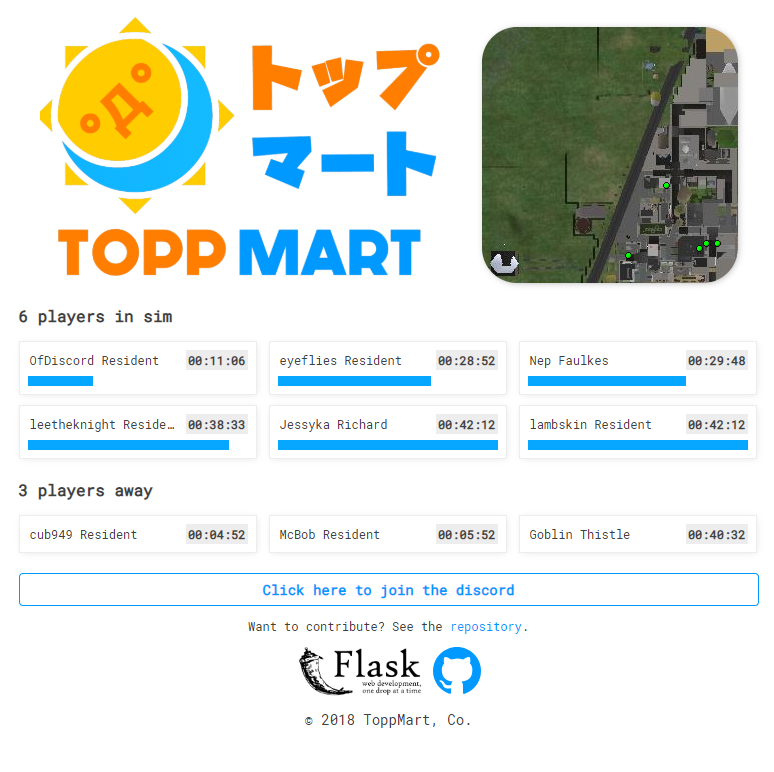
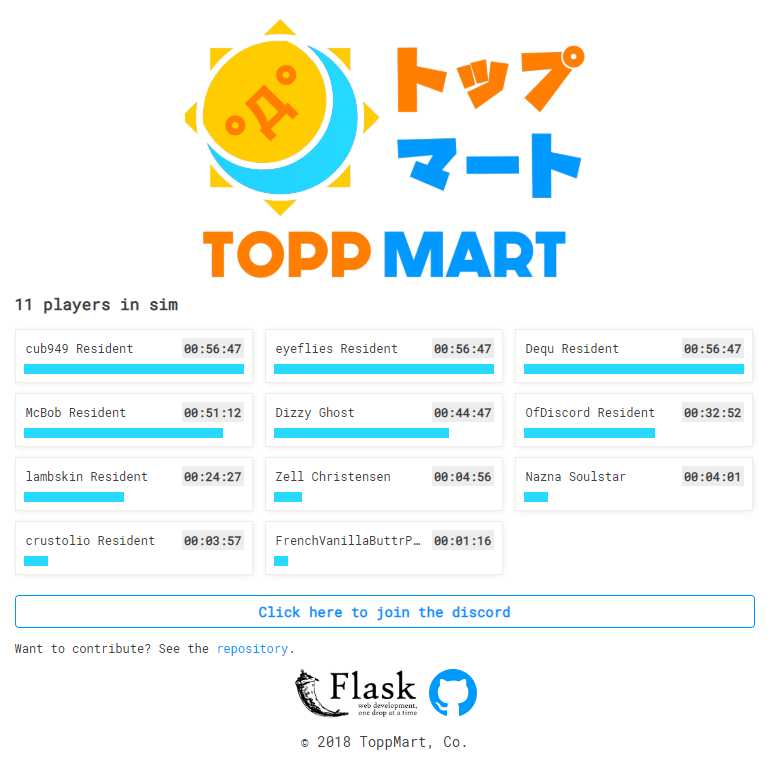
ranking players

diff --git a/app/static/app.js b/app/static/app.js
@@ -26,17 +26,34 @@ app.controller('MainCtrl', function($scope, $http, $timeout) {
     var getPlayers = function() {
         $http.get('/sim/json/players')
         .then(function(res) {
-          if(sidebar_id == null || sidebar_id != res.data.id) {
-              if(res.data.players.length == 0) {
+          if (sidebar_id == null || sidebar_id != res.data.id) {
+              if (res.data.players.length == 0) {
                    $scope.numplayers = '0 players';
                    $scope.players = [];
               } else {
-                  for(var i = 0; i < res.data.players.length; i++) {
+                  // Compute the ranks
+                  var rank_list = res.data.players.concat(res.data.offline_players).sort((a, b) => (b.time + b.elapsed) - (a.time + a.elapsed));
+                  var rank_dict = {};
+                  for (var i = 0; i < rank_list.length; i++) {
+                    rank_dict[rank_list[i].username] = i + 1;
+                  }
+
+                  for (var i = 0; i < res.data.players.length; i++) {
                       res.data.players[i].width = Math.min(10 + (210 * res.data.players[i].elapsed/res.data.max_time), 220);
                       res.data.players[i].elapsed_formatted = format_time(res.data.players[i].elapsed);
+                      var split_name = res.data.players[i].username.split(" ");
+                      res.data.players[i].rank = rank_dict[res.data.players[i].username];
+                      if (split_name.length > 0 && split_name[1] == "Resident") {
+                          res.data.players[i].username = split_name[0];
+                      }
                   }
-                  for(var i = 0; i < res.data.offline_players.length; i++) {
+                  for (var i = 0; i < res.data.offline_players.length; i++) {
                       res.data.offline_players[i].elapsed_formatted = format_time(res.data.offline_players[i].elapsed);
+                      var split_name = res.data.offline_players[i].username.split(" ");
+                      res.data.offline_players[i].rank = rank_dict[res.data.offline_players[i].username];
+                      if (split_name.length > 0 && split_name[1] == "Resident") {
+                          res.data.offline_players[i].username = split_name[0];
+                      }
                   }
                   $scope.numplayers = res.data.players.length + ' player' + (res.data.players.length > 1 ? 's' : '');
                   $scope.players = res.data.players.sort((b,a) => b.elapsed - a.elapsed);
@@ -59,7 +76,7 @@ app.controller('MainCtrl', function($scope, $http, $timeout) {
         elapsed = (Date.now() - last_date)/1000;
         $scope.max_time += elapsed;
         $scope.max_time = Math.floor($scope.max_time);
-        for(var i = 0; i < players.length; i++) {
+        for (var i = 0; i < players.length; i++) {
             players[i].elapsed += elapsed;
             players[i].width = Math.min(10 + (210 * players[i].elapsed/$scope.max_time), 220);
             players[i].elapsed_formatted = format_time(players[i].elapsed);
@@ -67,7 +84,7 @@ app.controller('MainCtrl', function($scope, $http, $timeout) {
 
         offline_players = $scope.offline_players;
 
-        for(var i = 0; i < offline_players.length; i++) {
+        for (var i = 0; i < offline_players.length; i++) {
             offline_players[i].elapsed += elapsed;
             offline_players[i].elapsed_formatted = format_time(offline_players[i].elapsed);
         }

diff --git a/app/templates/main.html b/app/templates/main.html
@@ -7,7 +7,7 @@
         </div>
         <div class="minimap">
             <div class="player" ng-repeat="player in players">
-                <img src="/static/player.png" title="@@player.username@@" alt="@@player.username@@" style="position: absolute; margin-left:@@player.x@@px; margin-top: @@256 - player.z@@px">
+                <img src="/static/player.png" alt="@@player.username@@" style="position: absolute; margin-left:@@player.x - 3.5@@px; margin-top: @@256 - player.z - 3.5@@px">
             </div>
         </div>
     </div>
@@ -15,6 +15,7 @@
     <div class="timers" ng-if="players && players.length > 0">
         <div class="timer-row" ng-repeat="player in players">
             <div class="timer-label">
+                <div class="rank"><div class="trophy" ng-if="player.rank <= 3">🏆</div>#@@player.rank@@ </div>
                 <div class="username">@@player.username@@</div>
                 <div class="time">@@player.elapsed_formatted@@</div>
             </div>
@@ -25,13 +26,14 @@
     <div class="timers" ng-if="offline_players && offline_players.length > 0">
         <div class="timer-row" ng-if="players" ng-repeat="player in offline_players">
             <div class="timer-label">
+                <div class="rank"><div class="trophy" ng-if="player.rank <= 3">🏆</div>#@@player.rank@@ </div>
                 <div class="username">@@player.username@@</div>
                 <div class="time">@@player.elapsed_formatted@@</div>
             </div>
         </div>
     </div>
     <div class="button" style="margin-top: 15px" onclick="window.open('https://discord.gg/NCrneV')">Click here to join the discord</div>
-    <p class="regular">Want to contribute? See the <a href="https://github.com/qubard/toppmart-website" target="_blank">repository</a>.</p>
+    <p class="regular">Want to contribute? See the <a href="https://github.com/qubard/toppmart-website" target="_blank">repository</a>. Ranks go by accumulated time in Onatopp.</p>
     <div class="powered-by-logos">
         <a href="http://flask.pocoo.org" target="_blank">
             <img class="python" src="http://flask.pocoo.org/static/logo/flask.png"/>

diff --git a/app/templates/base.html b/app/templates/base.html
@@ -2,8 +2,8 @@
 <html lang="en" ng-app="toppmart">
     <head>
     <meta charset="utf-8">
-    <link href="https://fonts.googleapis.com/css?family=Roboto+Mono" rel="stylesheet">
     <title>ToppMart</title>
+    <link href="https://fonts.googleapis.com/css?family=Roboto+Mono" rel="stylesheet">
     <meta http-equiv="Content-Type" content="text/html; charset=utf-8" />
     <link rel="apple-touch-icon" sizes="180x180" href="/static/apple-touch-icon.png">
     <link rel="icon" type="image/png" sizes="32x32" href="/static/favicon-32x32.png">

diff --git a/app/static/base.css b/app/static/base.css
@@ -135,16 +135,28 @@ a:hover {
     transform: scale(1.15);
 }
 
+.rank .trophy {
+    margin-right: 2px;
+}
+
 .timer-row .username {
-    max-width: 150px;
+    margin-right: 4px;
     text-overflow: ellipsis;
     overflow: hidden;
     padding: 2px;
+    flex-grow: 1;
 }
 
 .timer-row .time {
     display: flex;
     background-color: #EDEDED;
+    padding: 2px;
+    font-weight: bold;
+}
+
+.timer-row .rank {
+    display: flex;
+    background-color: #fff;
     padding: 2px;
     font-weight: bold;
 }

diff --git a/app/models/models.py b/app/models/models.py
@@ -41,4 +41,4 @@ class Player(db.Model):
 
     @property
     def serialize(self):
-        return {'username': self.username, 'elapsed': self.elapsed(), 'x': self.x, 'z': self.z}
+        return {'username': self.username, 'time': self.accumulated_time, 'elapsed': self.elapsed(), 'x': self.x, 'z': self.z}
